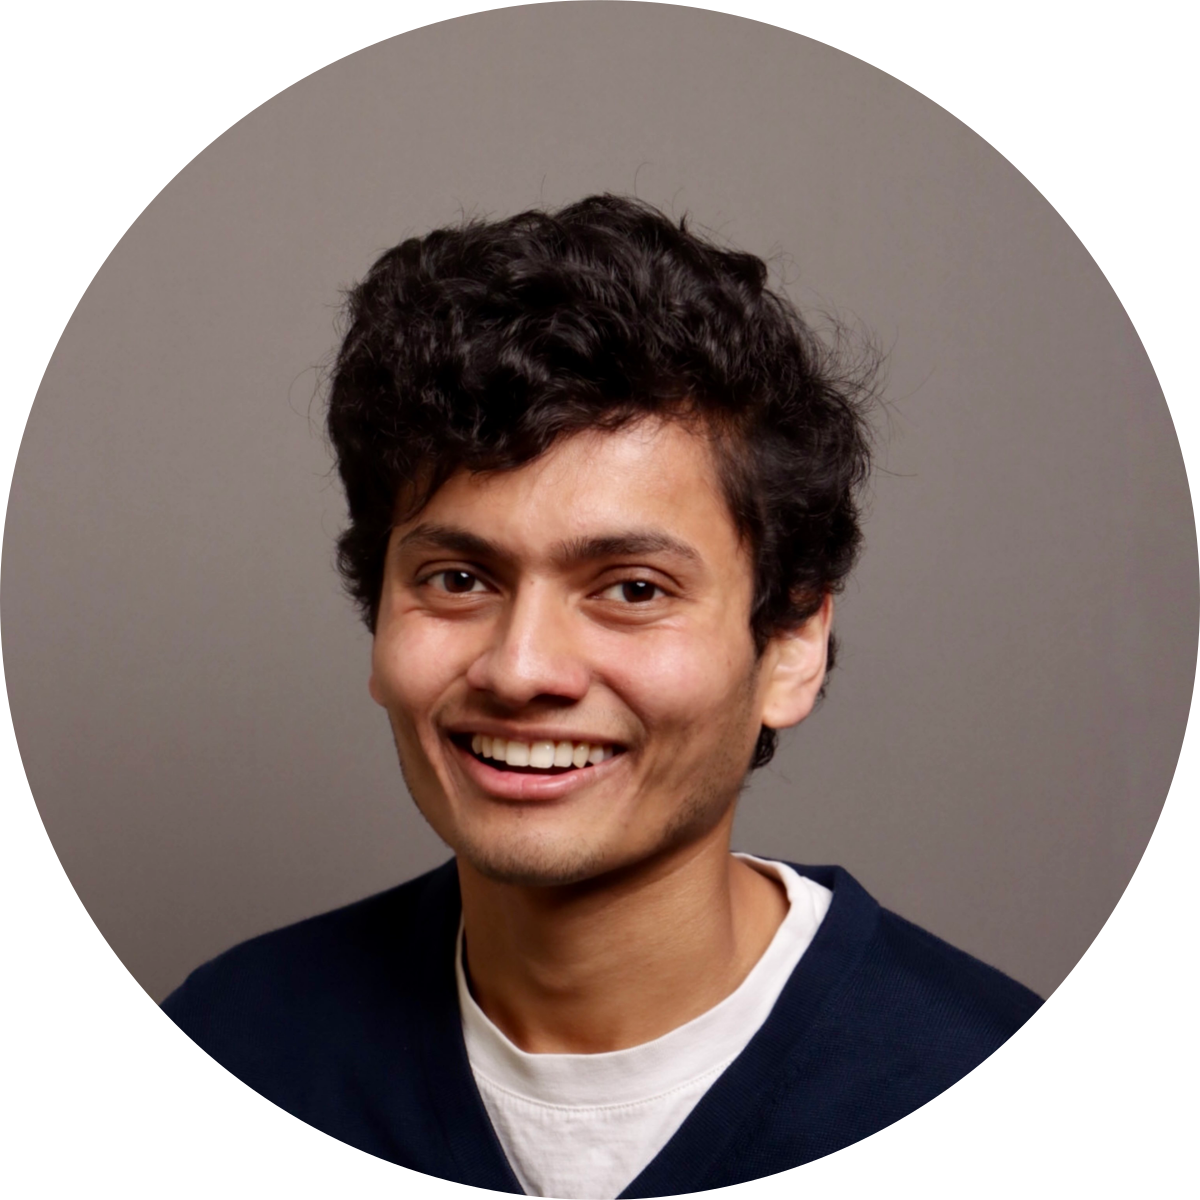
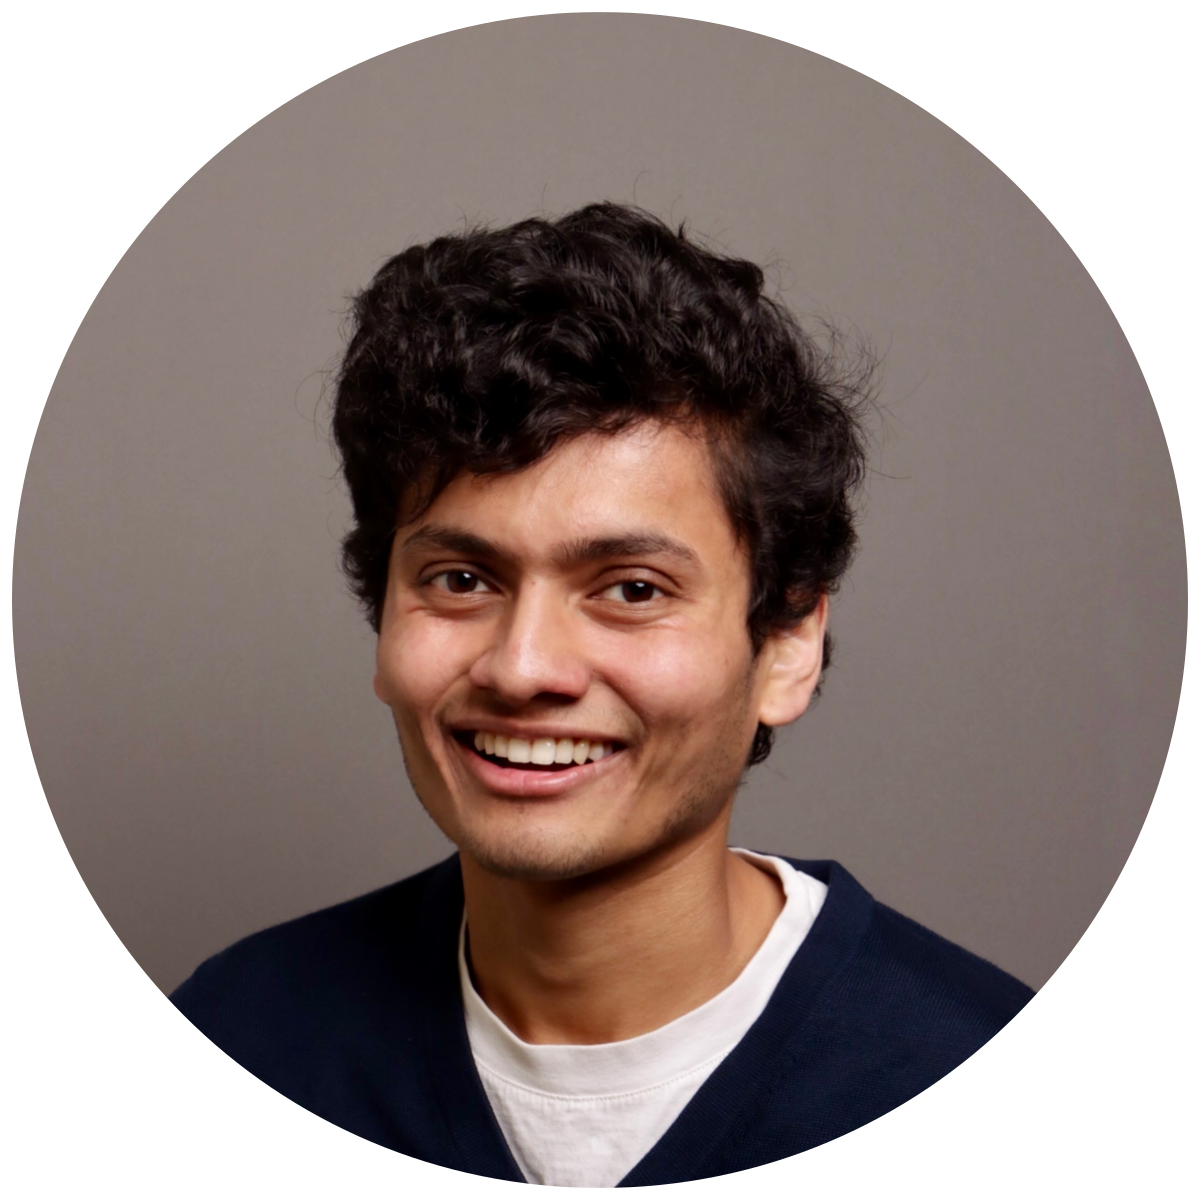
added

diff --git a/scripts/create-circular-profile.js b/scripts/create-circular-profile.js
@@ -17,38 +17,62 @@ async function createCircularProfile() {
   
   console.log(`Cropping ${size}x${size} square starting at x=${leftOffset}`);
   
-  // Create circular mask SVG
-  const circleMask = Buffer.from(
-    `<svg width="${size}" height="${size}">
-      <circle cx="${size/2}" cy="${size/2}" r="${size/2}" fill="white"/>
-    </svg>`
-  );
+  // Final output size and border settings
+  const outputSize = 1200;
+  const borderWidth = 12; // White border thickness
+  const innerSize = outputSize - (borderWidth * 2); // Size of the photo circle
   
-  // Process the image
-  await sharp(inputPath)
-    // Extract square region centered on face
+  // First, create the circular cropped photo
+  const circularPhoto = await sharp(inputPath)
     .extract({
       left: leftOffset,
       top: 0,
       width: size,
       height: size
     })
-    // Resize to a reasonable size for og:image (1200x1200 is good for social)
-    .resize(1200, 1200)
-    // Apply circular mask
+    .resize(innerSize, innerSize)
     .composite([{
       input: Buffer.from(
-        `<svg width="1200" height="1200">
-          <circle cx="600" cy="600" r="600" fill="white"/>
+        `<svg width="${innerSize}" height="${innerSize}">
+          <circle cx="${innerSize/2}" cy="${innerSize/2}" r="${innerSize/2}" fill="white"/>
         </svg>`
       ),
       blend: 'dest-in'
     }])
-    // Output as PNG with transparency
+    .png()
+    .toBuffer();
+  
+  // Create the final image with white border
+  await sharp({
+    create: {
+      width: outputSize,
+      height: outputSize,
+      channels: 4,
+      background: { r: 0, g: 0, b: 0, alpha: 0 }
+    }
+  })
+    .composite([
+      // White circle border (slightly larger)
+      {
+        input: Buffer.from(
+          `<svg width="${outputSize}" height="${outputSize}">
+            <circle cx="${outputSize/2}" cy="${outputSize/2}" r="${outputSize/2}" fill="white"/>
+          </svg>`
+        ),
+        blend: 'over'
+      },
+      // The circular photo on top
+      {
+        input: circularPhoto,
+        left: borderWidth,
+        top: borderWidth,
+        blend: 'over'
+      }
+    ])
     .png()
     .toFile(outputPath);
   
-  console.log(`✓ Circular profile image saved to: ${outputPath}`);
+  console.log(`✓ Circular profile image with white border saved to: ${outputPath}`);
 }
 
 createCircularProfile().catch(err => {
